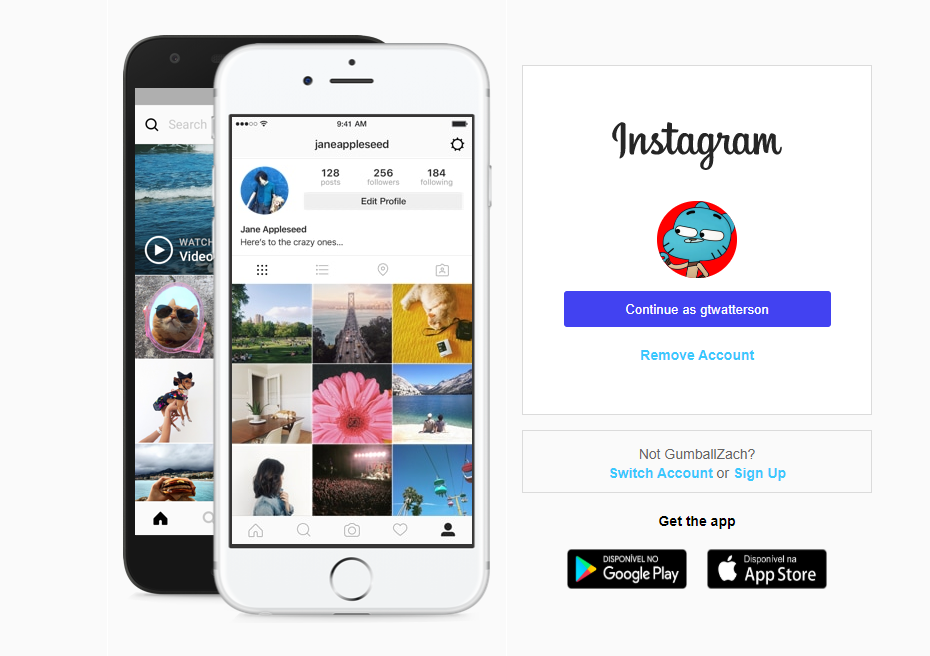
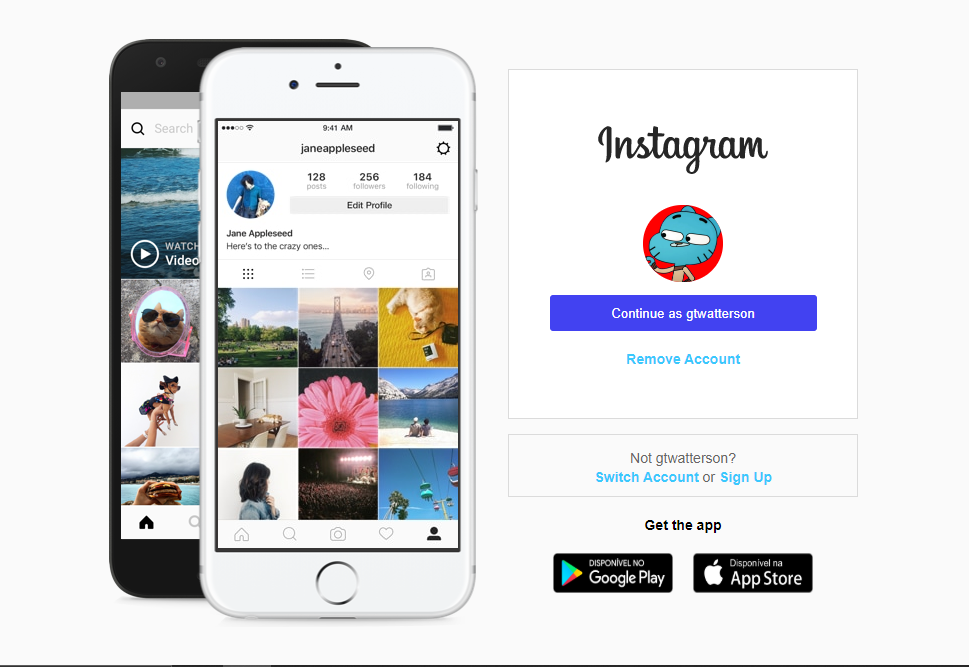
Oh no! back to it again

diff --git a/source/index.html b/source/index.html
@@ -80,7 +80,7 @@
             <div class="isnot">
                 <p>Not gtwatterson?</p>
                 <span class="link">
-                    <a href="#">Switch Account</a> or <a href="#">Sign Up</a>
+                    <a href="#">Switch Accounts</a> or <a href="#">Sign Up</a>
                 </apan>
             </div>
 

diff --git a/source/styles.css b/source/styles.css
@@ -49,7 +49,6 @@ main aside {
     flex-direction: column;
     align-items: center;
     justify-content: center;
-    border: 1px solid #fff;
 
     width: 400px;
     height: 100vh;
